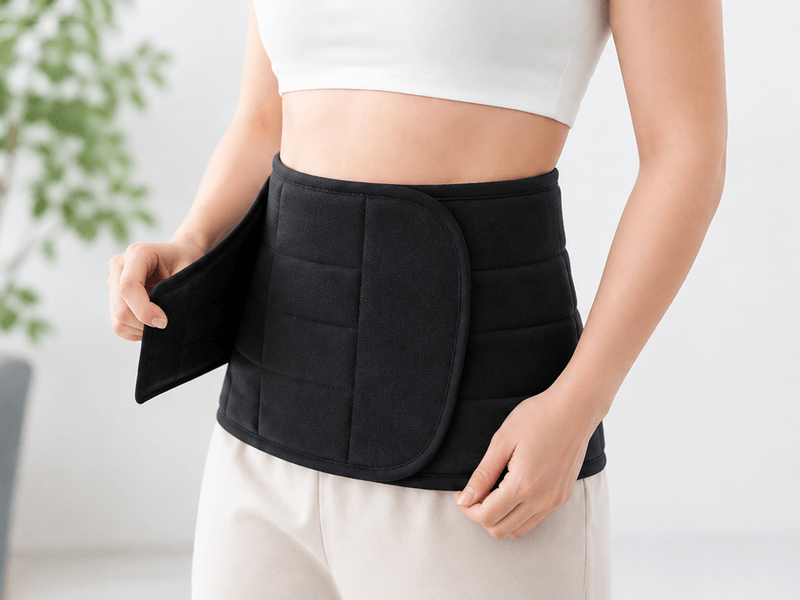
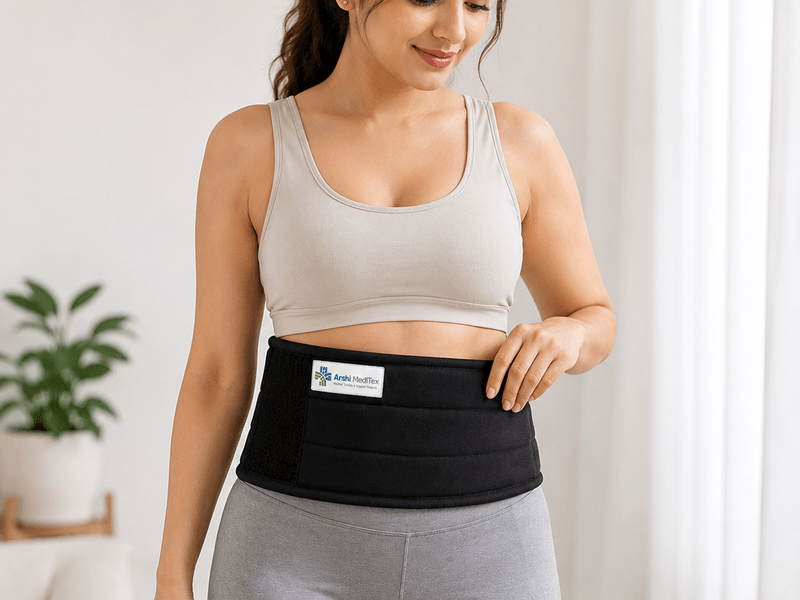
Add extra product gallery photos to product detail pages
Each product now shows 3 model shots (plus the plain product photo)
in the clickable thumbnail gallery instead of just 1.

diff --git a/src/lib/products.ts b/src/lib/products.ts
@@ -1,8 +1,12 @@
 import type { StaticImageData } from "next/image";
 import cSectionBelt from "@/assets/c-section-belt.png";
 import cSectionBeltWithModel from "@/assets/c-section-belt-with-model.png";
+import cSectionBeltWithModel2 from "@/assets/c-section-belt-with-model-2.png";
+import cSectionBeltWithModel3 from "@/assets/c-section-belt-with-model-3.png";
 import lumbarSupportBelt from "@/assets/lumbar-support-belt.png";
 import lumbarSupportBeltWithModel from "@/assets/lumbar-support-belt-with-model.png";
+import lumbarSupportBeltWithModel2 from "@/assets/lumbar-support-belt-with-model-2.png";
+import lumbarSupportBeltWithModel3 from "@/assets/lumbar-support-belt-with-model-3.png";
 
 export type Product = {
   slug: string;
@@ -12,7 +16,7 @@ export type Product = {
   features: string[];
   idealFor: string;
   image: StaticImageData;
-  galleryImage: StaticImageData;
+  galleryImages: StaticImageData[];
 };
 
 export const products: Product[] = [
@@ -20,7 +24,11 @@ export const products: Product[] = [
     slug: "c-section-abdominal-belt",
     name: "C-Section Abdominal Belt",
     image: cSectionBelt,
-    galleryImage: cSectionBeltWithModel,
+    galleryImages: [
+      cSectionBeltWithModel,
+      cSectionBeltWithModel2,
+      cSectionBeltWithModel3,
+    ],
     tagline: "Comfortable Abdominal Support for Post-C-Section Use",
     intro:
       "Our C-Section Abdominal Belt is designed to provide comfortable support around the abdominal area after C-section surgery.",
@@ -38,7 +46,11 @@ export const products: Product[] = [
     slug: "lumbar-support-belt",
     name: "Lumbar Support Belt",
     image: lumbarSupportBelt,
-    galleryImage: lumbarSupportBeltWithModel,
+    galleryImages: [
+      lumbarSupportBeltWithModel,
+      lumbarSupportBeltWithModel2,
+      lumbarSupportBeltWithModel3,
+    ],
     tagline: "Reliable Support for the Lower Back",
     intro:
       "Our Lumbar Support Belt is designed to provide comfortable support around the lower back and waist. Its adjustable design helps provide a secure and comfortable fit.",

diff --git a/src/app/products/[slug]/ProductGallery.tsx b/src/app/products/[slug]/ProductGallery.tsx
@@ -6,17 +6,20 @@ import Image, { type StaticImageData } from "next/image";
 type ProductGalleryProps = {
   name: string;
   image: StaticImageData;
-  galleryImage: StaticImageData;
+  galleryImages: StaticImageData[];
 };
 
 export default function ProductGallery({
   name,
   image,
-  galleryImage,
+  galleryImages,
 }: ProductGalleryProps) {
   const images = [
     { src: image, alt: name },
-    { src: galleryImage, alt: `${name} being worn` },
+    ...galleryImages.map((src, i) => ({
+      src,
+      alt: `${name} being worn ${i + 1}`,
+    })),
   ];
   const [active, setActive] = useState(0);
 
@@ -38,7 +41,7 @@ export default function ProductGallery({
             key={i}
             type="button"
             onClick={() => setActive(i)}
-            className={`relative aspect-[4/3] w-24 overflow-hidden rounded-lg border-2 transition-colors ${
+            className={`relative aspect-[4/3] w-20 overflow-hidden rounded-lg border-2 transition-colors ${
               active === i ? "border-primary" : "border-transparent"
             }`}
             aria-label={`Show ${img.alt}`}
@@ -48,7 +51,7 @@ export default function ProductGallery({
               alt={img.alt}
               fill
               className="object-cover"
-              sizes="96px"
+              sizes="80px"
             />
           </button>
         ))}

diff --git a/src/app/products/[slug]/page.tsx b/src/app/products/[slug]/page.tsx
@@ -37,7 +37,7 @@ export default async function ProductPage({
         <ProductGallery
           name={product.name}
           image={product.image}
-          galleryImage={product.galleryImage}
+          galleryImages={product.galleryImages}
         />
         <div>
           <h1 className="text-3xl font-bold text-primary-dark">{product.name}</h1>
